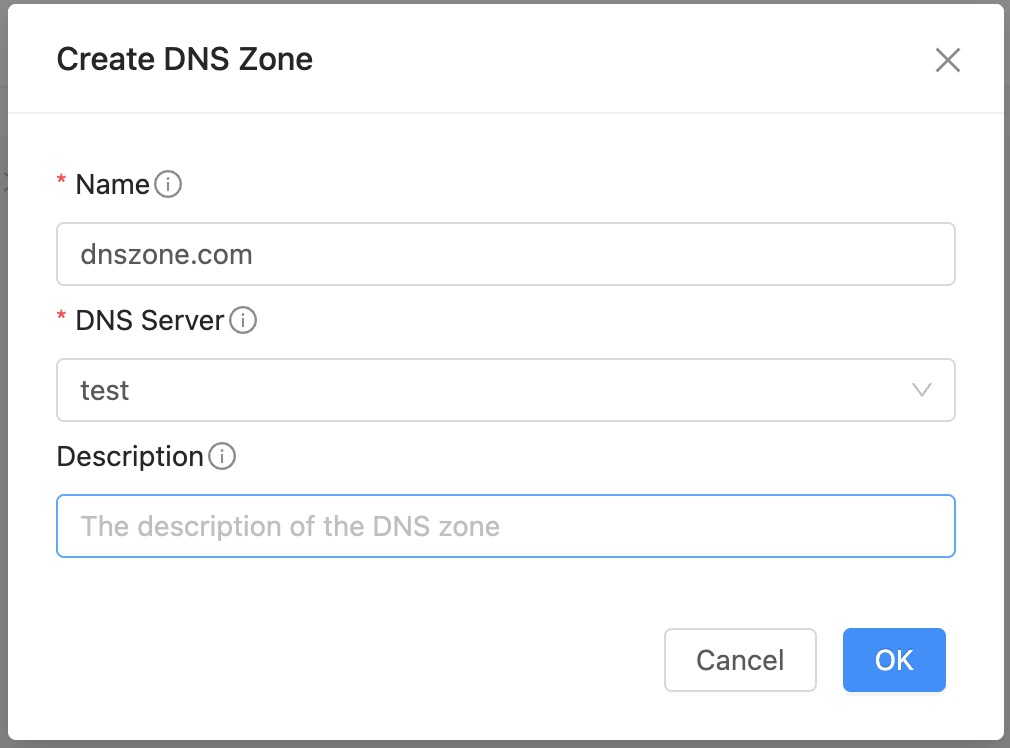
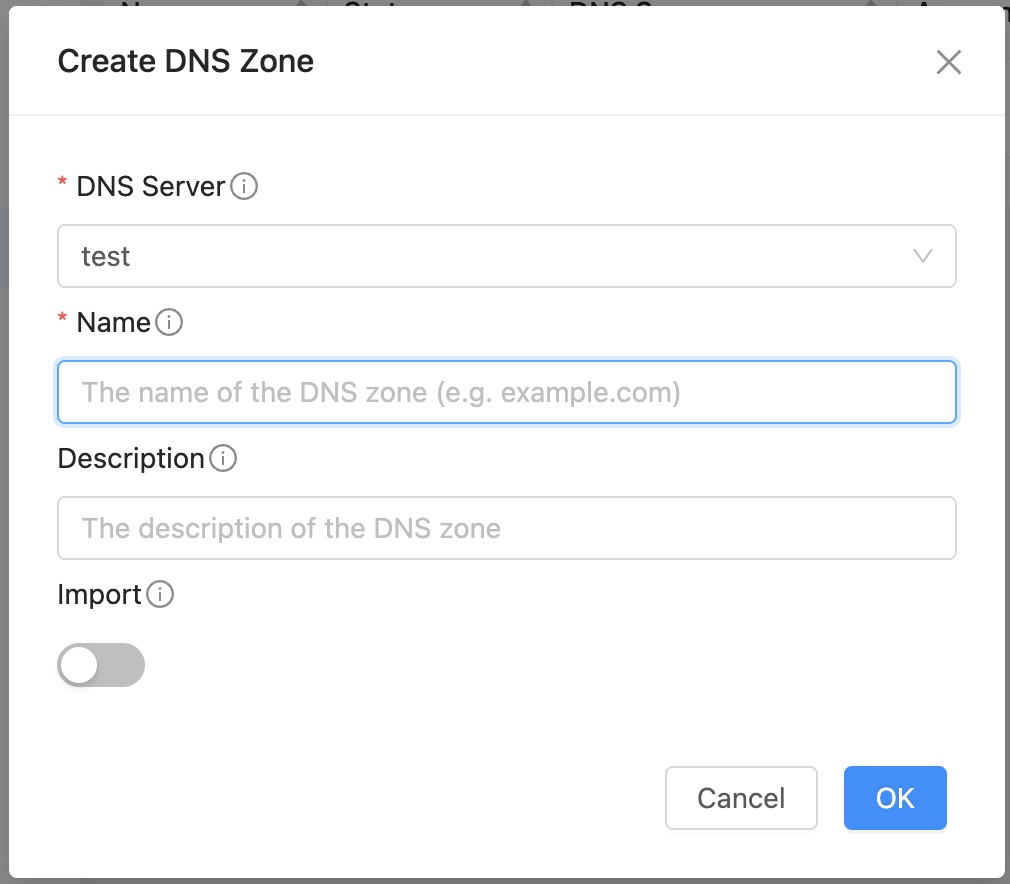
introduce import and unmanage option for createDnsZone and deleteDnsZone

diff --git a/source/adminguide/networking/dns_framework.rst b/source/adminguide/networking/dns_framework.rst
@@ -255,7 +255,7 @@ Using the API:
 
 .. code:: bash
 
-   cmk create dnszone dnsserverid=<dns-server-id> name="example.com" description="Example DNS zone"
+   cmk create dnszone dnsserverid=<dns-server-id> name="example.com" import=false description="Example DNS zone"
 
 
 **Parameters**
@@ -276,6 +276,9 @@ Using the API:
    * - ``description``
      - No
      - The description of the DNS zone
+   * - ``import``
+     - No
+     - If true, imports an existing DNS zone from the external DNS provider into CloudStack; if false, creates a new DNS zone in both CloudStack and the DNS provider. **Default**: ``false``
 
 
 Listing DNS Zones
@@ -322,7 +325,25 @@ Using the API:
 
 .. code:: bash
 
-   cmk delete dnszone id=<zone-id>
+   cmk delete dnszone id=<zone-id> unmanage=false
+
+
+**Parameters**
+
+.. list-table::
+   :widths: 20 15 65
+   :header-rows: 1
+
+   * - Name
+     - Required
+     - Description
+   * - ``id``
+     - Yes
+     - The ID of the DNS zone
+   * - ``unmanage``
+     - No
+     - If false, removes it from both CloudStack and the DNS provider, if true, removes the DNS zone only from CloudStack. **Default**: ``false``
+
 
 .. note:: Deleting a DNS zone will also delete all DNS records within that zone.
 
